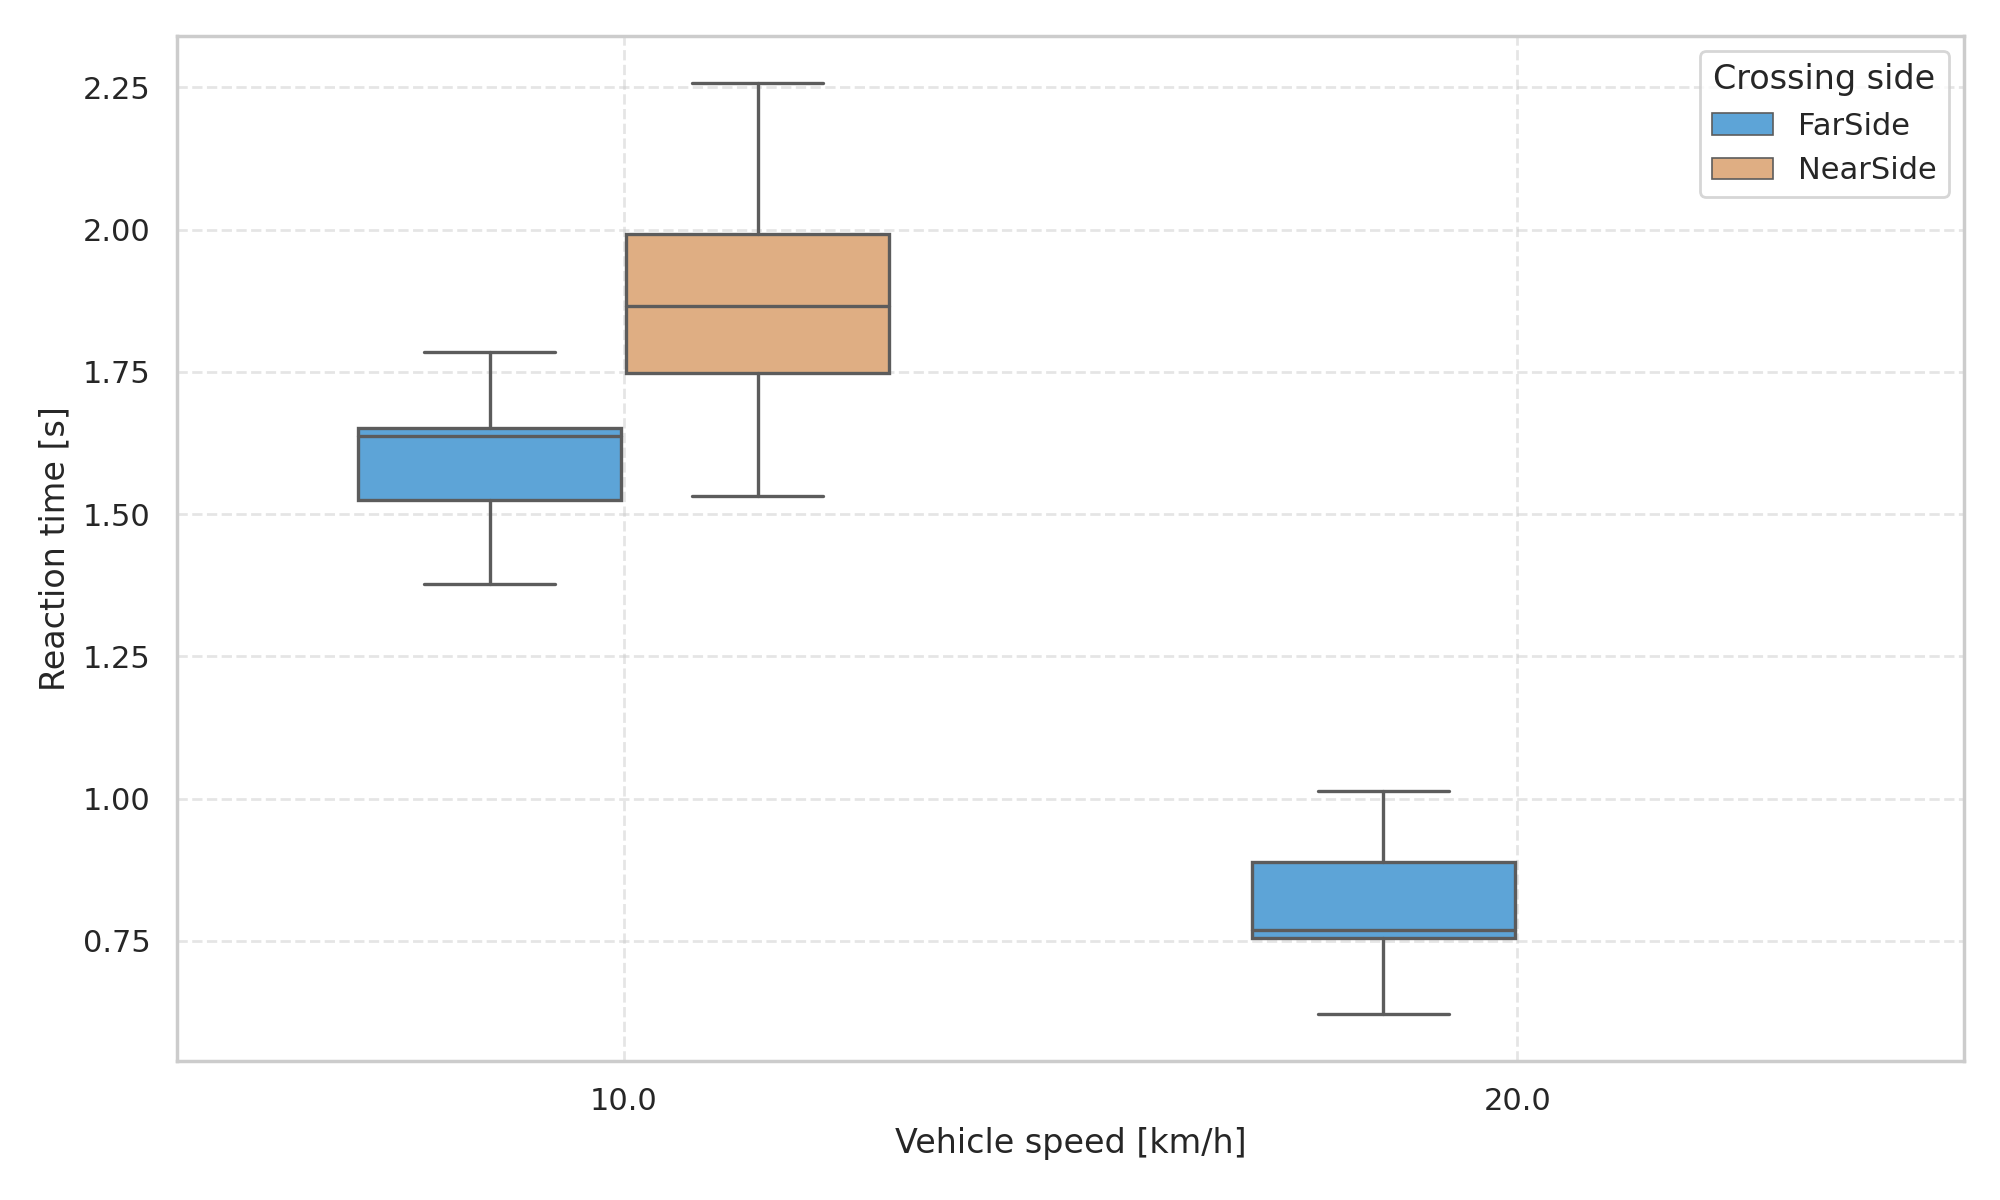
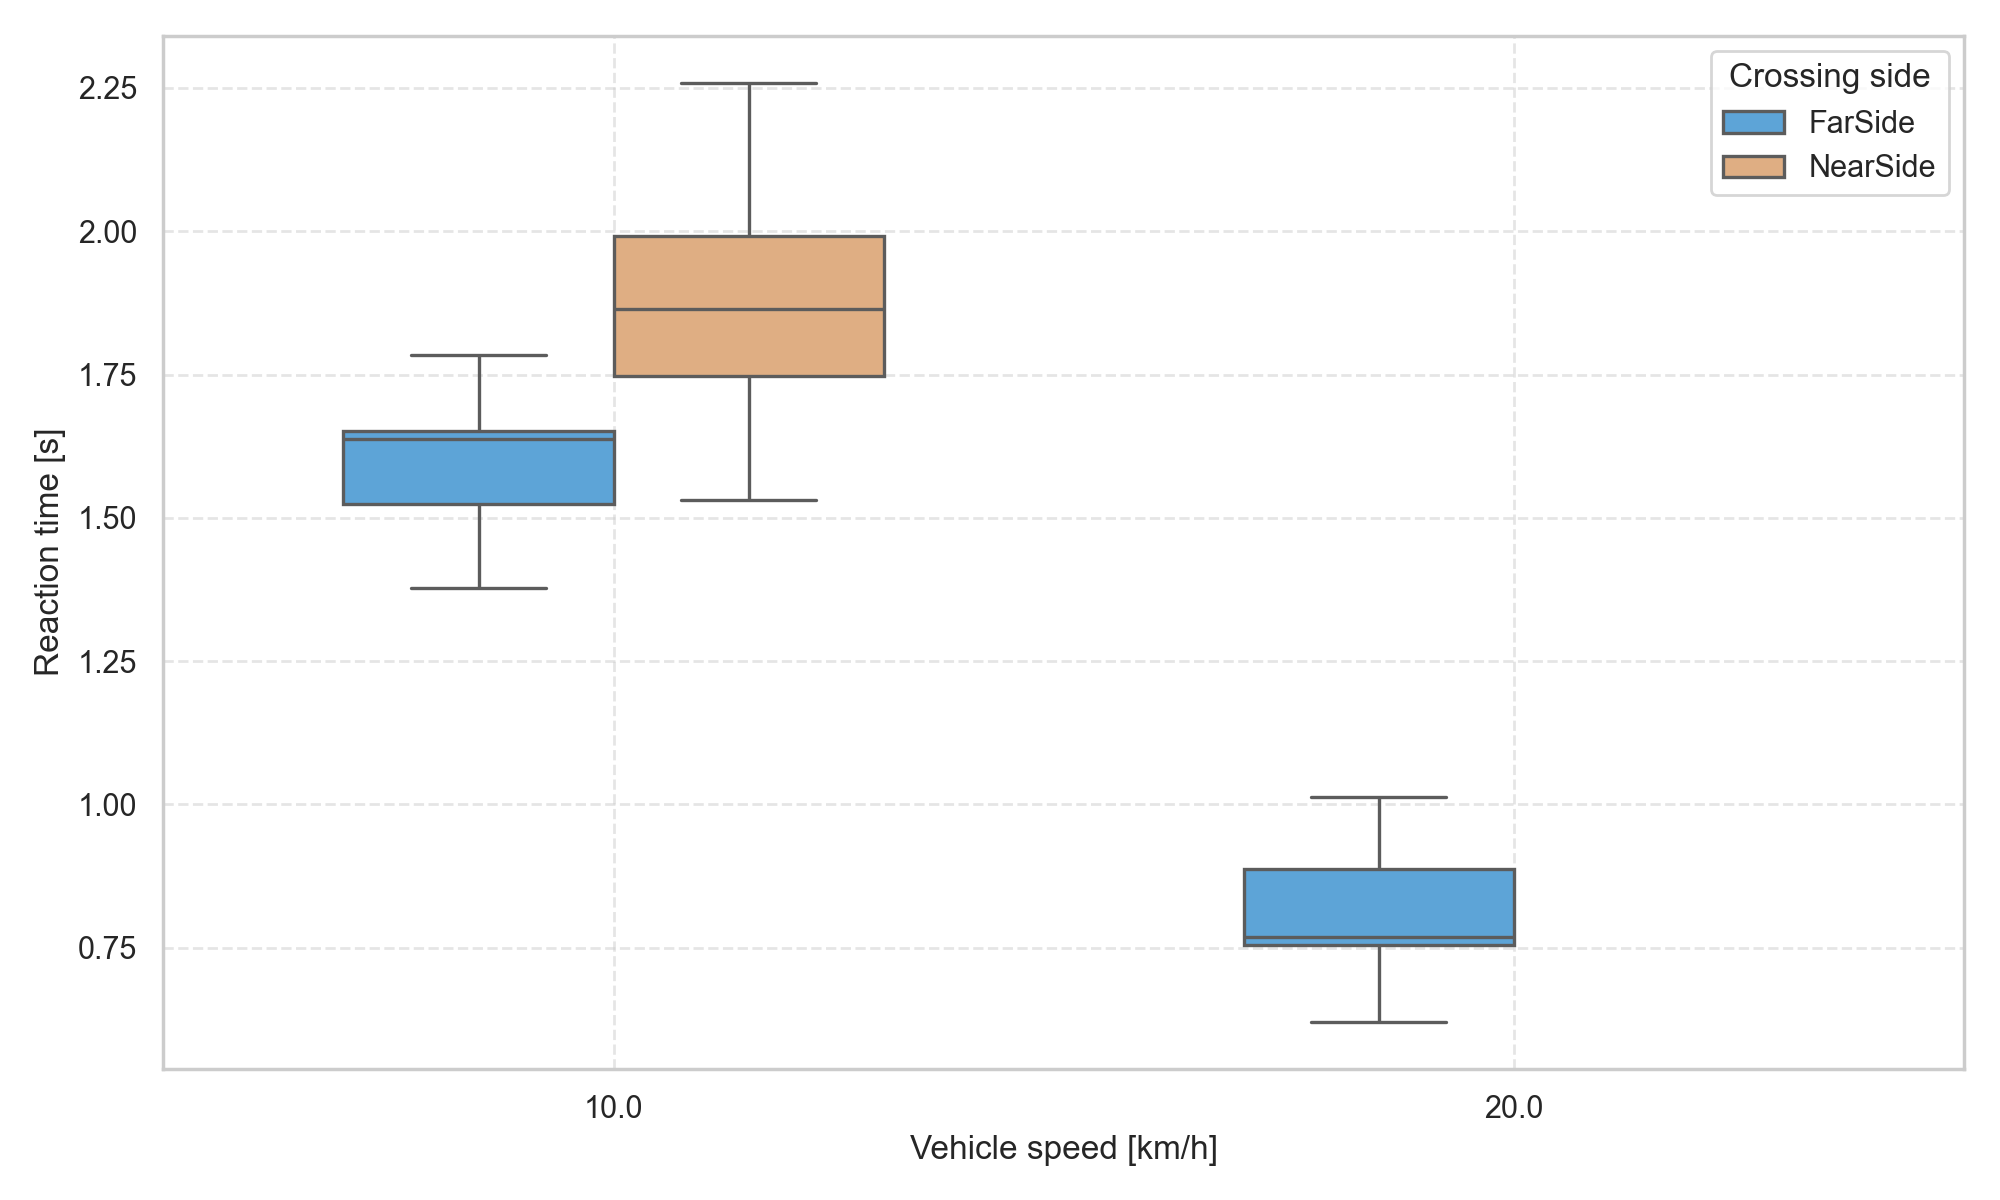
Go on metrics

diff --git a/carla-pedestrian-protection-system/plot_metrics_tests.py b/carla-pedestrian-protection-system/plot_metrics_tests.py
@@ -7,13 +7,13 @@ import matplotlib.pyplot as plt
 
 
 INPUT_DIR = "./logs"
-OUTPUT_DIR = "./results4"
+OUTPUT_DIR = "./results3"
 os.makedirs(OUTPUT_DIR, exist_ok=True)
 
 def load_all_logs(folder):
     records = []
     for filename in os.listdir(folder):
-        if filename.endswith("4.jsonl"):
+        if filename.endswith("3.jsonl"):
             scenario_name = filename.replace(".jsonl", "")
             with open(os.path.join(folder, filename), "r", encoding="utf-8") as f:
                 for line in f:
@@ -167,10 +167,34 @@ metrics_df = metrics_df[(metrics_df["d_min"].isna()) | (metrics_df["d_min"] < 15
 metrics_df["day_night"] = metrics_df["is_day"].map({True: "Day", False: "Night"})
 metrics_df["points_ncap"] = metrics_df.apply(compute_scenario_score, axis=1)
 
+# ============================
+# 1) FUNZIONE CI + FORMATO LATEX
+# ============================
+def compute_residual_speed_latex(series):
+    series = pd.to_numeric(series.dropna(), errors="coerce")
+    n = len(series)
+
+    if n == 0:
+        return None  # no collision → nothing to compute
+
+    if n == 1:
+        m = series.iloc[0]
+        return f"{m:.2f} ± 0.00"
+
+    mean = series.mean()
+    std = series.std(ddof=1)
+    ci = 1.96 * std / np.sqrt(n)
+
+    return f"{mean:.2f} ± {ci:.2f}"
+
+
+
+# ============================
+# 2) AGGREGAZIONE BASE
+# ============================
 agg_metrics = (
     metrics_df.groupby(["scenario_name", "code", "speed_kmh", "day_night"])
     .agg({
-        "residual_speed_kmh": "mean",
         "reaction_time_ttc_mean": "mean",
         "reaction_time_sim_mean": "mean",
         "stop_distance_mean": "mean",
@@ -183,6 +207,23 @@ agg_metrics = (
     })
     .reset_index()
 )
+
+# ============================
+# 3) AGGIUNTA COLONNA LATEX
+# ============================
+residual_group = (
+    metrics_df.groupby(["scenario_name", "code", "speed_kmh", "day_night"])["residual_speed_kmh"]
+    .apply(compute_residual_speed_latex)
+    .reset_index(name="residual_speed_latex")
+)
+
+# MERGE PULITO
+agg_metrics = agg_metrics.merge(
+    residual_group,
+    on=["scenario_name", "code", "speed_kmh", "day_night"],
+    how="left"
+)
+
 
 agg_metrics["collision_rate"] = agg_metrics["with_pedestrian"]
 agg_metrics["emergency_brake_rate"] = (
